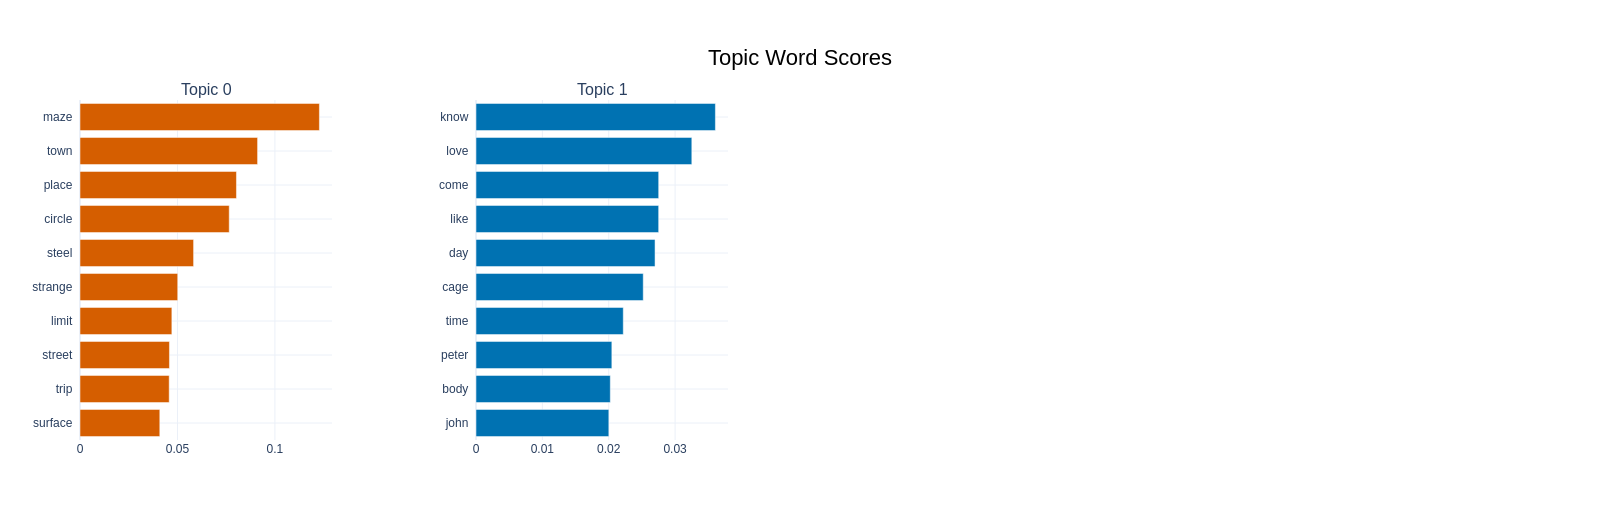
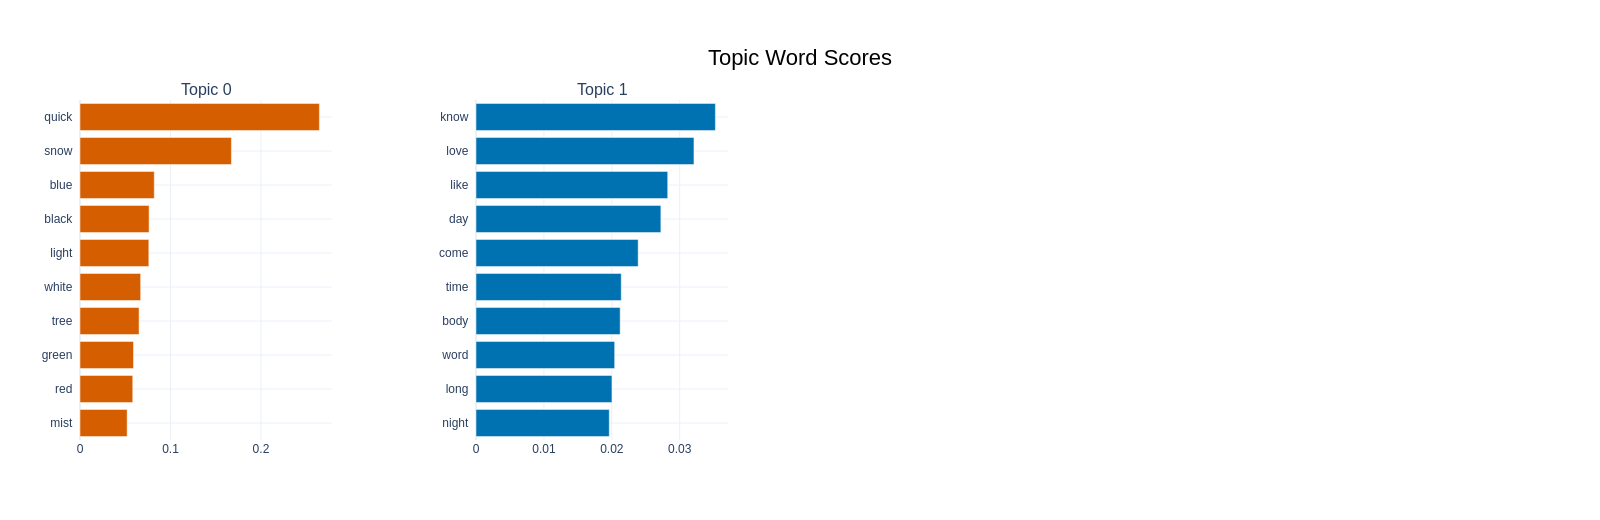
novo bertopic

diff --git a/modelagemTopicos/bertopic3.py b/modelagemTopicos/bertopic3.py
@@ -42,7 +42,7 @@ IDIOMA_DESTINO = "en_XX" #  "fr_XX", "pt_XX", "en_XX"
 # Idioma para o pré-processamento (NLTK e spaCy)
 IDIOMA_PROC = "en_XX"
 
-nr_topics = 3
+nr_topics = 4
 # 3 até o 7 - qtd de topicos reais +1(outliers)
 
 # ==============================================================================
